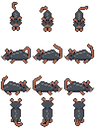
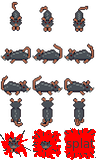
add traps and frags

diff --git a/src/js/states/Game.ts b/src/js/states/Game.ts
@@ -18,6 +18,8 @@ export default class GameState extends Phaser.State {
 	mice: RatPack;
 	spawnPositions: point[];
 
+	traps: Phaser.Group;
+
 	create () {
 		// setup the map
 		this.map = this.game.add.tilemap('level1');
@@ -33,15 +35,25 @@ export default class GameState extends Phaser.State {
 		// create our mice group and add it to the world
 		this.mice = new RatPack(this.game, this.spawnPositions, 10, this.map);
 		this.world.addChild(this.mice);
+
+		this.traps = new Phaser.Group(this.game, null, 'traps', true, true, Phaser.Physics.ARCADE);
+		this.traps.physicsBodyType = Phaser.Physics.ARCADE;
+
+		this.game.input.onDown.add(this.onClick, this);
 	}
 
 	update () {
 		this.game.physics.arcade.collide(this.mice, this.blockedLayer, this.mouseCollides);
-		// this.game.physics.arcade.collide(this.mice, this.blockedLayer, this.mouseCollides);
+		this.game.physics.arcade.collide(this.mice, this.traps, this.mouseTrap);
 	}
 
 	mouseCollides (mouse, tile) {
 		mouse.changeDirection(tile);
+	}
+
+	mouseTrap (mouse, trap) {
+		mouse.onKilled();
+		trap.destroy();
 	}
 
 	findSpawnPoints () {
@@ -51,6 +63,13 @@ export default class GameState extends Phaser.State {
 				y: pos.y
 			}
 		});
+	}
+
+	onClick () {
+		var tile = this.blockedLayer.getTileXY(this.game.input.mousePointer.x, this.game.input.mousePointer.y, <Phaser.Point>{});
+		if (this.blockedLayer.layer.data[tile.y][tile.x].index === -1) {
+			this.traps.create(tile.x * 32, tile.y * 32, 'trap');
+		}
 	}
 
 	// helper function to get objects from map by type

diff --git a/src/js/entities/Mouse.ts b/src/js/entities/Mouse.ts
@@ -22,6 +22,7 @@ export default class Mouse extends Phaser.Sprite {
 		this.animations.add('down', [0, 1, 2], this.framerate, true);
 		this.animations.add('left', [3, 4, 5], this.framerate, true);
 		this.animations.add('right', [6, 7, 8], this.framerate, true);
+		this.animations.add('death', [12, 13, 14, 14, 14, 14], this.framerate, false);
 
 		// add physics
 		this.game.physics.arcade.enable(this);
@@ -32,7 +33,7 @@ export default class Mouse extends Phaser.Sprite {
 	}
 
 	update () {
-		// this.body.velocity.setTo(0);
+
 	}
 
 	setVelocity (direction) {
@@ -50,13 +51,6 @@ export default class Mouse extends Phaser.Sprite {
 	}
 
 	changeDirection (tile) {
-		// use array for possible combinations of x, ys
-		// ['right', ['up', x - 1, y - 1], ['down', x - 1, y + 1]]
-		if (this.game.time.now - this.lastDirectionChange < 100) {
-			this.setVelocity(this.direction);
-			return;
-		}
-		this.lastDirectionChange = this.game.time.now;
 		this.body.velocity.setTo(0);
 
 		if (this.direction === 'right') {
@@ -95,5 +89,9 @@ export default class Mouse extends Phaser.Sprite {
 
 		this.setVelocity(this.direction);
 
+	}
+
+	onKilled () {
+		this.animations.play('death').onComplete.add(() => this.destroy());
 	}
 }

diff --git a/src/js/states/Preload.ts b/src/js/states/Preload.ts
@@ -7,7 +7,8 @@ export default class Preload extends Phaser.State {
 		this.load.tilemap('level1', 'assets/level1.json', null, Phaser.Tilemap.TILED_JSON);
 		this.load.image('gameTiles', 'assets/tiles.png');
 		
-		this.load.spritesheet('mouse', 'assets/mouse.png', 32, 32, 12);
+		this.load.spritesheet('mouse', 'assets/mouse.png', 32, 32, 15);
+		this.load.image('trap', 'assets/trap.png');
 	}
 	
 	create () {
